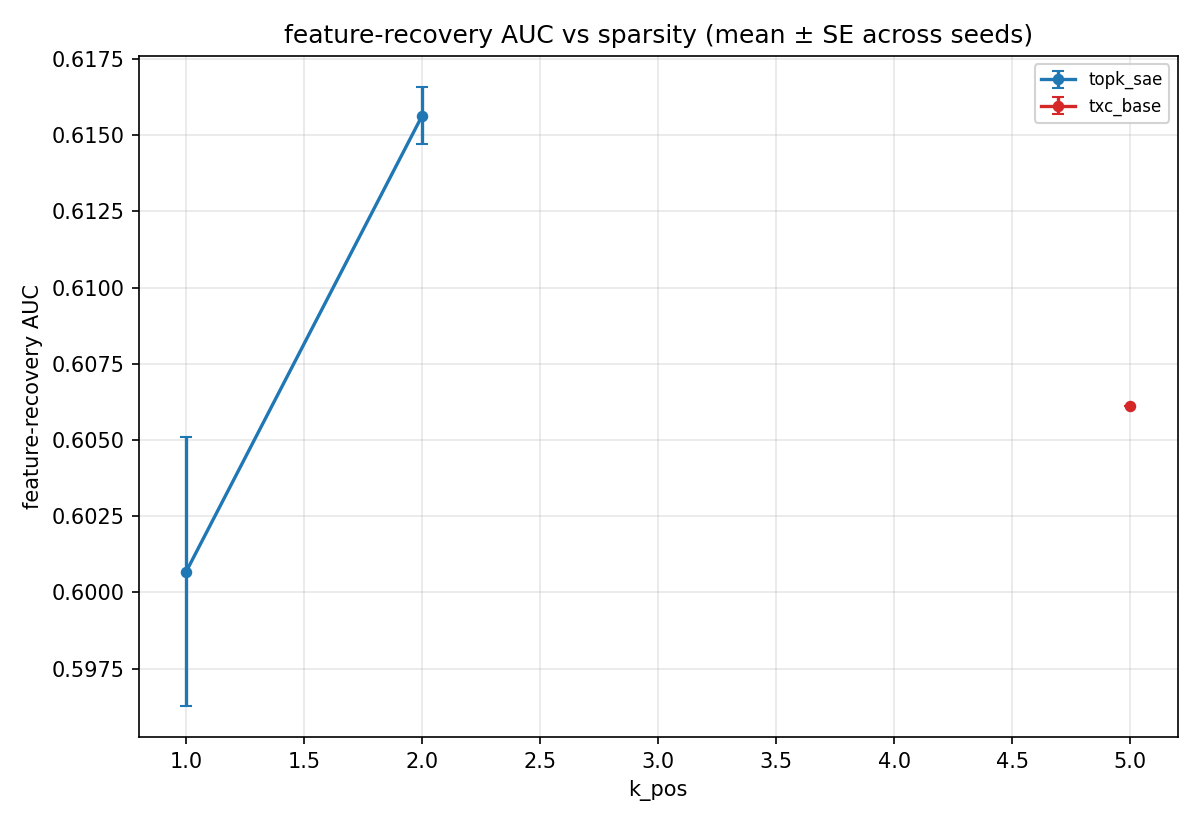
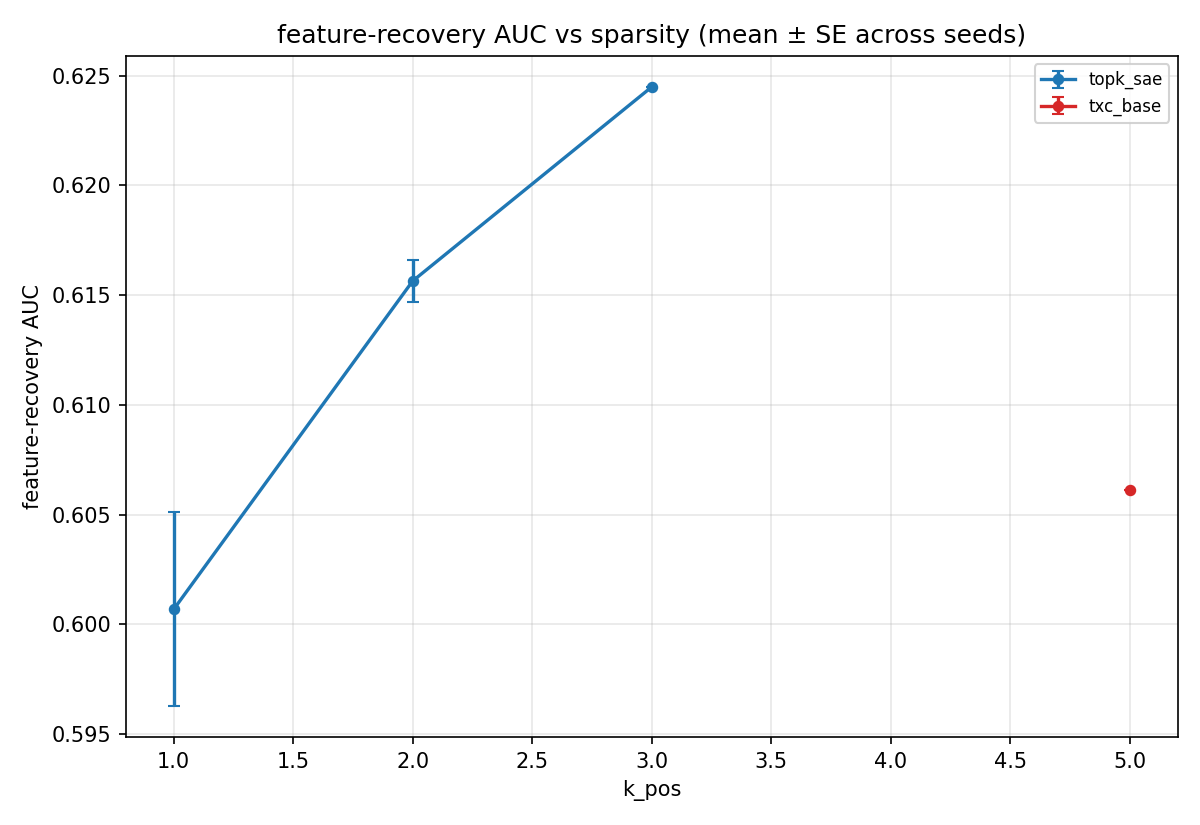
c1+c2 paper auto: refresh synthetic bundles (c1=, c2= leaderboard rows)
Auto-generated by purified/scripts/synthetic_paper_renderer.py.
Inputs: results/leaderboard.jsonl filtered to component in (c1,c2)
with eval_cfg._full_suite=true (the c{1,2}_synthetic_*_full driver flag).

diff --git a/purified/docs/components/c1_paper_results.md b/purified/docs/components/c1_paper_results.md
@@ -1,6 +1,6 @@
 # C1 Synthetic TopK — paper-ready results (auto-generated)
 
-_Last refreshed: 2026-05-06T21:21:13+00:00_
+_Last refreshed: 2026-05-06T21:51:17+00:00_
 
 ## Setup
 
@@ -9,13 +9,13 @@ _Last refreshed: 2026-05-06T21:21:13+00:00_
 - Metric: feature-recovery AUC against the 20 ground-truth orthogonal directions (per-feature max cosine ≥ τ, integrated over τ ∈ [0, 1]).
 - Driver: `experiments/c1_synthetic_topk_full/run.py` (routes through `temp_bench.data.toy_full.api`, isolated from agent_filler's `toy_markov_n20_d40` cache via distinct `act_cache_key`).
 
-Currently 13 cells across 2 (arch, T) configurations; seeds-per-cell range = [1, 6].
+Currently 14 cells across 2 (arch, T) configurations; seeds-per-cell range = [1].
 
 ## Headline (peak AUC over k_pos)
 
 | arch | T | k\* | AUC (mean ± SE) | n seeds |
 |------|---|----|---------------------------|---------|
-| `topk_sae` | — | 2 | 0.616 ± 0.001 | 6 |
+| `topk_sae` | — | 3 | 0.624 ± 0.000 | 1 |
 | `txc_base` | — | 5 | 0.606 ± 0.000 | 1 |
 
 ## AUC vs k_pos
@@ -24,7 +24,7 @@ Currently 13 cells across 2 (arch, T) configurations; seeds-per-cell range = [1,
 
 ## Per-cell mean (averaged across seeds)
 
-| arch (T) | k=1 | k=2 | k=5 |
-|---|---|---|---|
-| `topk_sae` | 0.601 | 0.616 | — |
-| `txc_base` | — | — | 0.606 |
+| arch (T) | k=1 | k=2 | k=3 | k=5 |
+|---|---|---|---|---|
+| `topk_sae` | 0.601 | 0.616 | 0.624 | — |
+| `txc_base` | — | — | — | 0.606 |

diff --git a/purified/docs/components/c2_paper_results.md b/purified/docs/components/c2_paper_results.md
@@ -1,6 +1,6 @@
 # C2 Synthetic Coupled — paper-ready results (auto-generated)
 
-_Last refreshed: 2026-05-06T21:21:13+00:00_
+_Last refreshed: 2026-05-06T21:51:18+00:00_
 
 ## Setup
 
